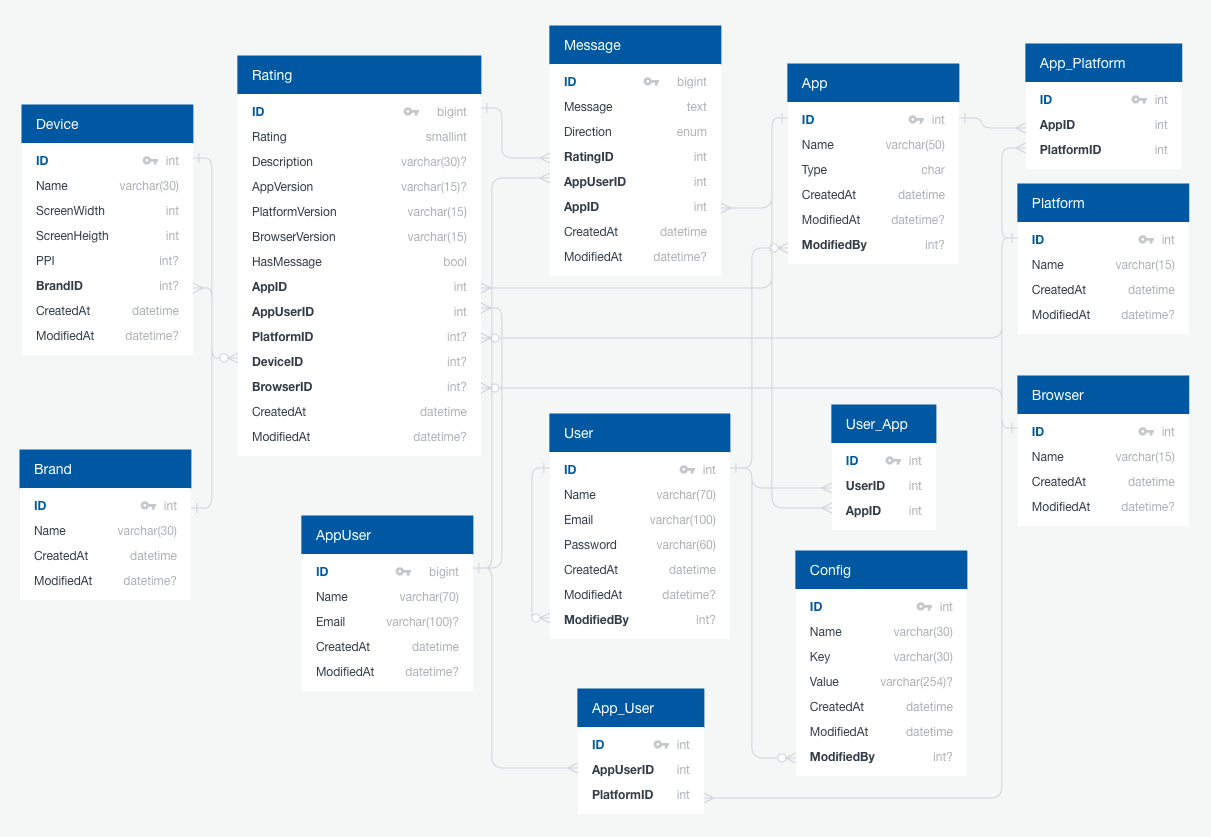
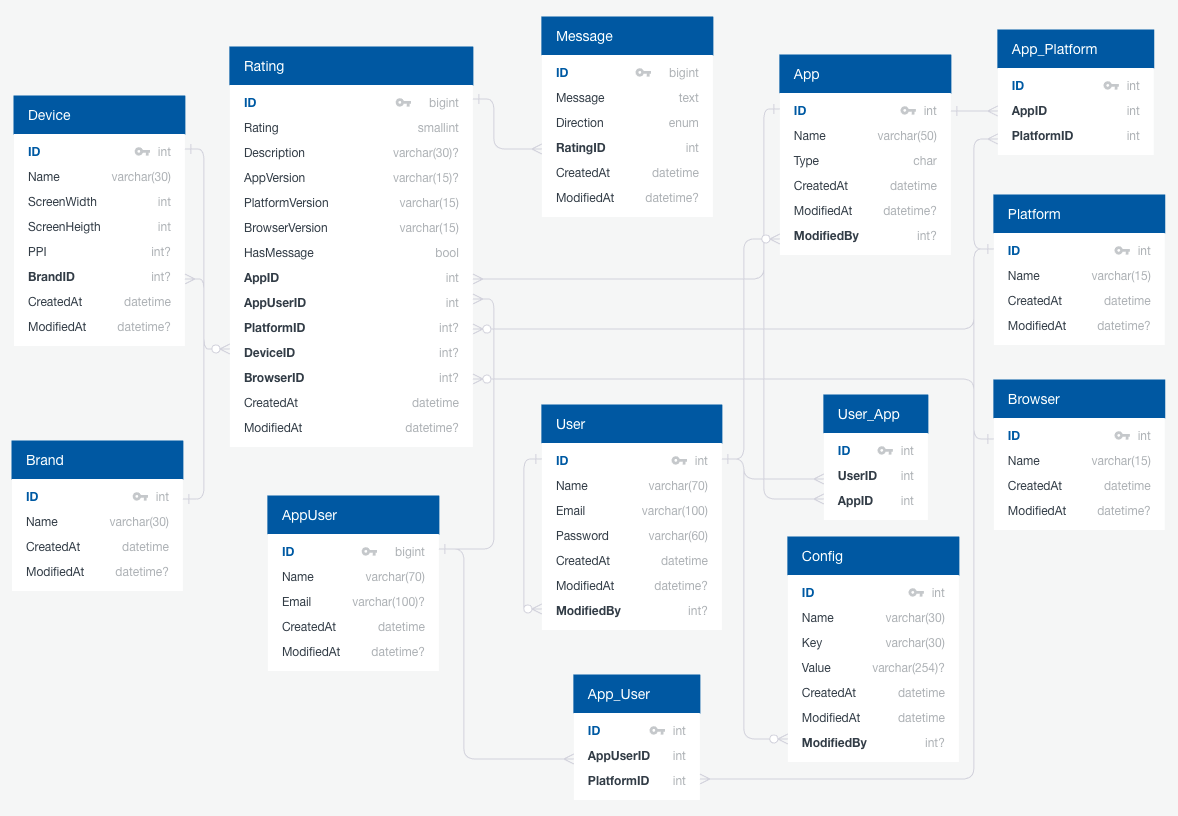
Updated docs

diff --git a/docs/estructura/datos.md b/docs/estructura/datos.md
@@ -183,8 +183,6 @@ Los mensajes de las conversaciones con los usuarios de las apps que enviaron cal
 #### Relaciones
 
 - **One-to-many** con Rating, a través de `rating_id`
-- **One-to-many** con AppUser, a través de `appuser_id`
-- **One-to-many** con Apps, a través de `app_id`
 
 |Campos          |Tipo                  | FK?   | Null? |Unique?|Index? |
 |----------------|----------------------|:-----:|:-----:|:-----:|:-----:|
@@ -192,8 +190,6 @@ Los mensajes de las conversaciones con los usuarios de las apps que enviaron cal
 |message         |text                  |       |       |       |       |
 |direction       |char                  |       |       |       |Sí     |
 |rating_id       |int                   |X      |       |       |X      |
-|appuser_id      |int                   |X      |       |       |X      |
-|app_id          |int                   |X      |       |       |X      |
 |created_at      |datetime              |       |       |       |       |
 |modified_at     |datetime              |       |X      |       |       |
 
@@ -219,3 +215,7 @@ Los valores de configuración del backend.
 ## Timestamps
 
 Los campos `created_at` y `modified_at` son creados automáticamente por Laravel y no serán modificados.
+
+## Borrado
+
+Será físico, en todos los casos.
